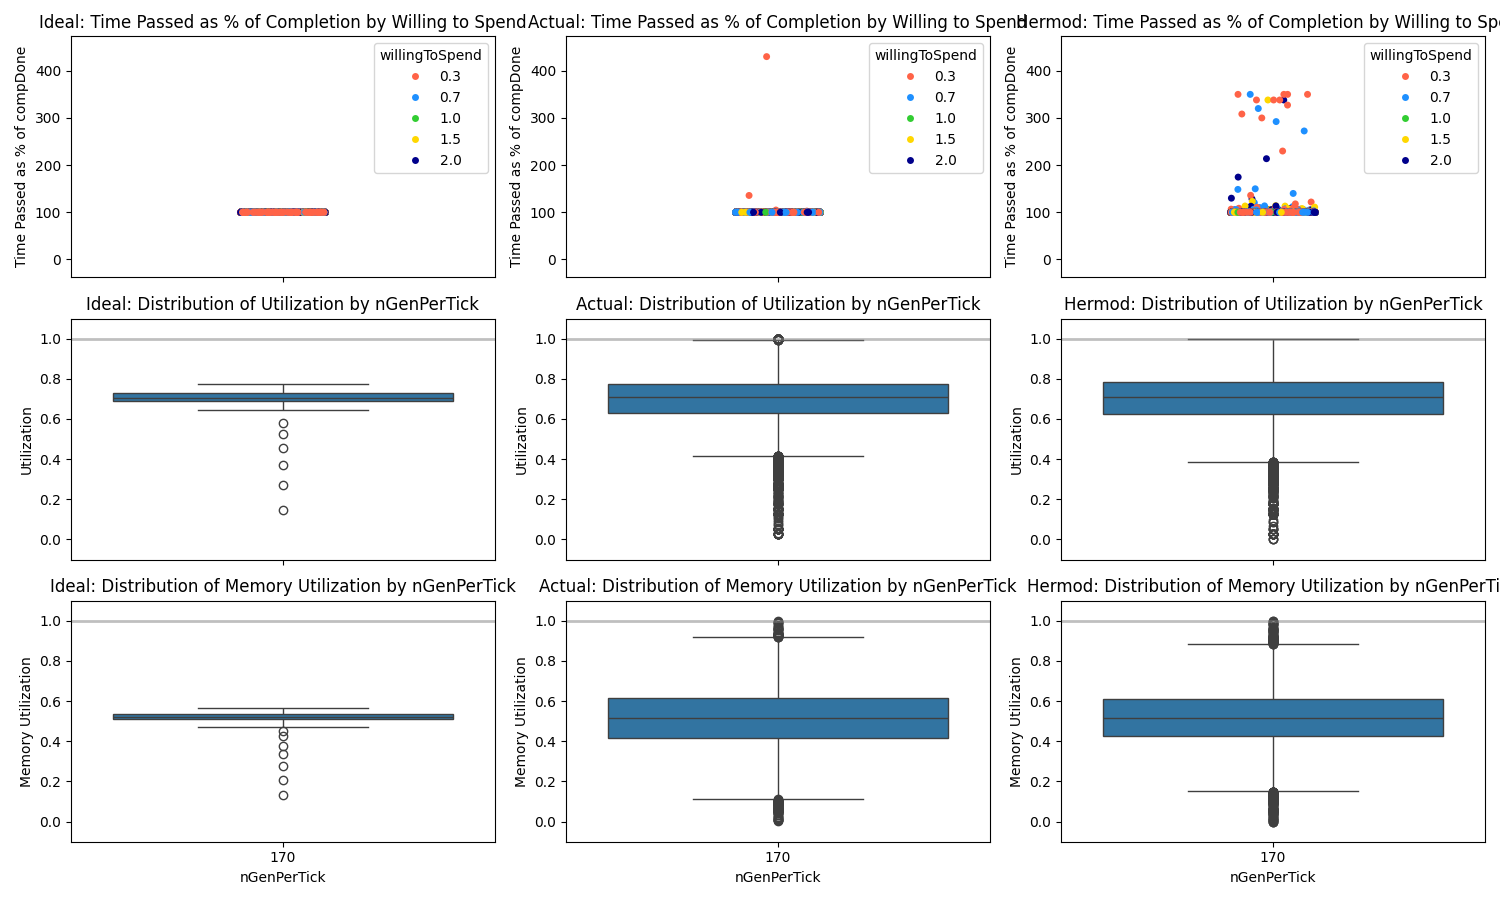
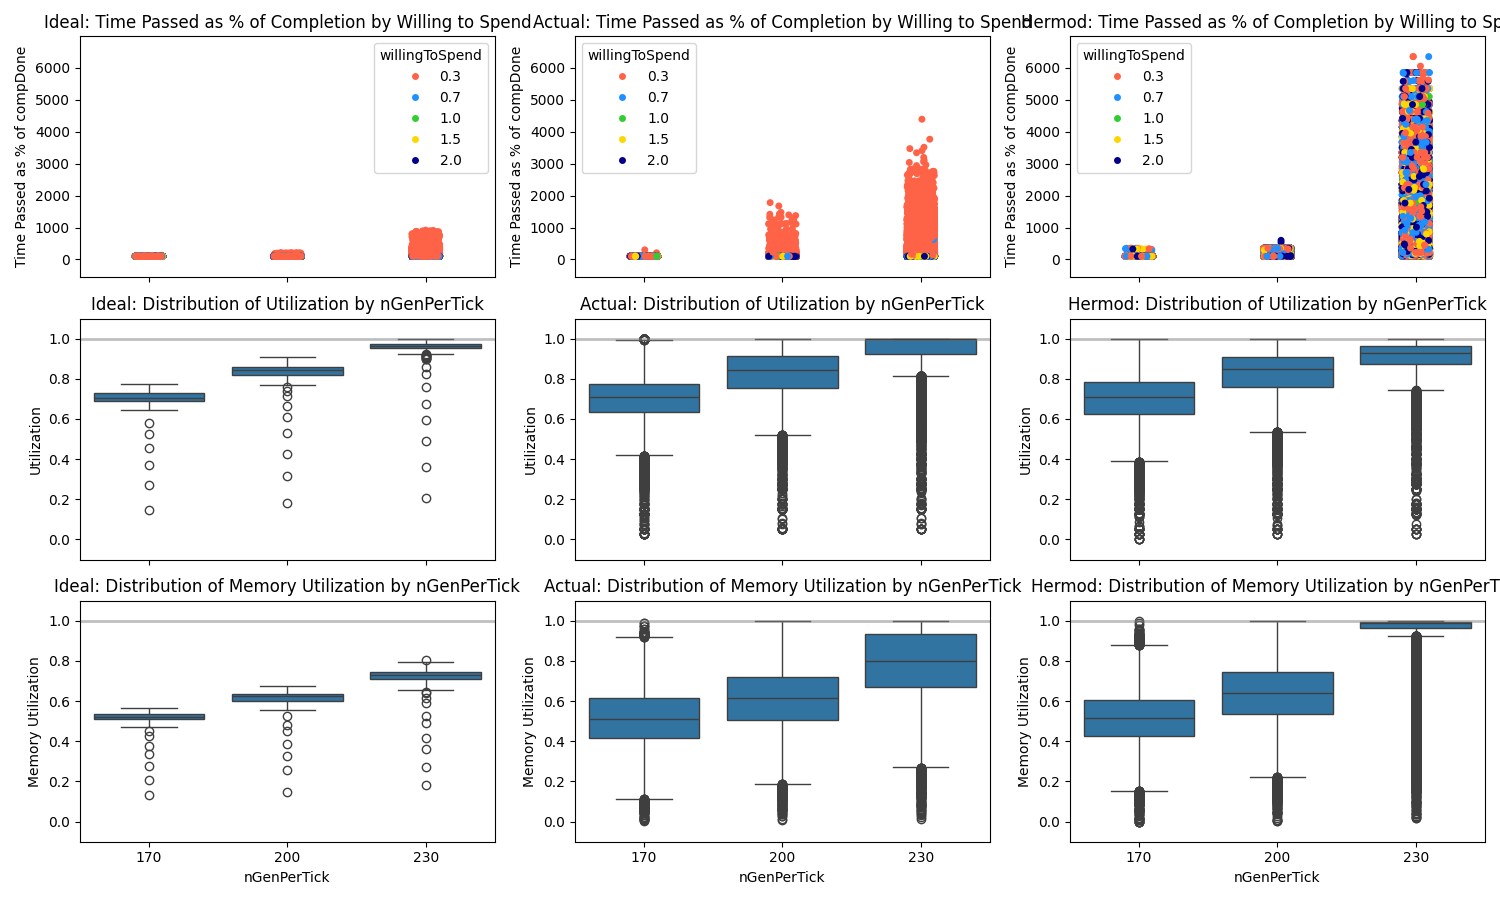
running stuff

diff --git a/proc.go b/proc.go
@@ -20,13 +20,13 @@ type Proc struct {
 
 func (p *Proc) String() string {
 	return strconv.Itoa(int(p.procId)) + ": " +
-		", time started: " + p.timeStarted.String() +
-		", time placed: " + p.timePlaced.String() +
-		", time done: " + p.timeDone.String() +
-		", actual comp " + p.procInternals.actualComp.String() +
+		", started: " + p.timeStarted.String() +
+		", placed: " + p.timePlaced.String() +
+		", done: " + p.timeDone.String() +
+		", full comp " + p.procInternals.actualComp.String() +
 		", comp done " + p.compDone.String() +
-		", willing to spend: " + strconv.FormatFloat(float64(p.willingToSpend()), 'f', 3, 32) +
-		", max mem: " + strconv.Itoa(int(p.maxMem()))
+		", price: " + strconv.FormatFloat(float64(p.willingToSpend()), 'f', 3, 32) +
+		", mem: " + strconv.Itoa(int(p.maxMem()))
 }
 
 func newProvProc(procId Tid, currTick Tftick, privProc *ProcInternals) *Proc {

diff --git a/hermod-gs.go b/hermod-gs.go
@@ -54,15 +54,11 @@ func (hgs *HermodGS) placeProcs() {
 	hgs.procQ = toReq
 }
 
-// TODO: rn not really considering that its a benefit to have one 100% used machine rather than two 50%
-// I think this is kind of what the different load settings are about?
-
 func (hgs *HermodGS) pickMachine(procToPlace *Proc) *HermodMachine {
 
 	// power of k choices - do hermod hybrid load balancing thing among the sampled machines
 
 	// right now always doing high load scenario stuff
-	// ig that's what we're targeting
 
 	var machineToUse *HermodMachine
 	machinesToTry := pickRandomElements(Values(hgs.machines), K_CHOICES_DOWN)

diff --git a/run_test.go b/run_test.go
@@ -14,12 +14,12 @@ const (
 
 	// this is overall
 	N_PROCS_GEN_PER_TICK_START = 170
-	N_PROCS_GEN_PER_TICK_END   = 170
+	N_PROCS_GEN_PER_TICK_END   = 230
 )
 
 func TestRunWorld(t *testing.T) {
 	emptyFiles()
-	for nProcsToGen := N_PROCS_GEN_PER_TICK_START; nProcsToGen <= N_PROCS_GEN_PER_TICK_END; nProcsToGen += 20 {
+	for nProcsToGen := N_PROCS_GEN_PER_TICK_START; nProcsToGen <= N_PROCS_GEN_PER_TICK_END; nProcsToGen += 30 {
 
 		fmt.Printf("---- Running with %v procs per ticks ----\n", nProcsToGen)
 

diff --git a/world.go b/world.go
@@ -16,7 +16,7 @@ const (
 	VERBOSE_USAGE_STATS       = true
 	VERBOSE_SCHED_INFO        = false
 	VERBOSE_IDEAL_SCHED_INFO  = false
-	VERBOSE_HERMOD_SCHED_INFO = true
+	VERBOSE_HERMOD_SCHED_INFO = false
 )
 
 const SEED = 12345
